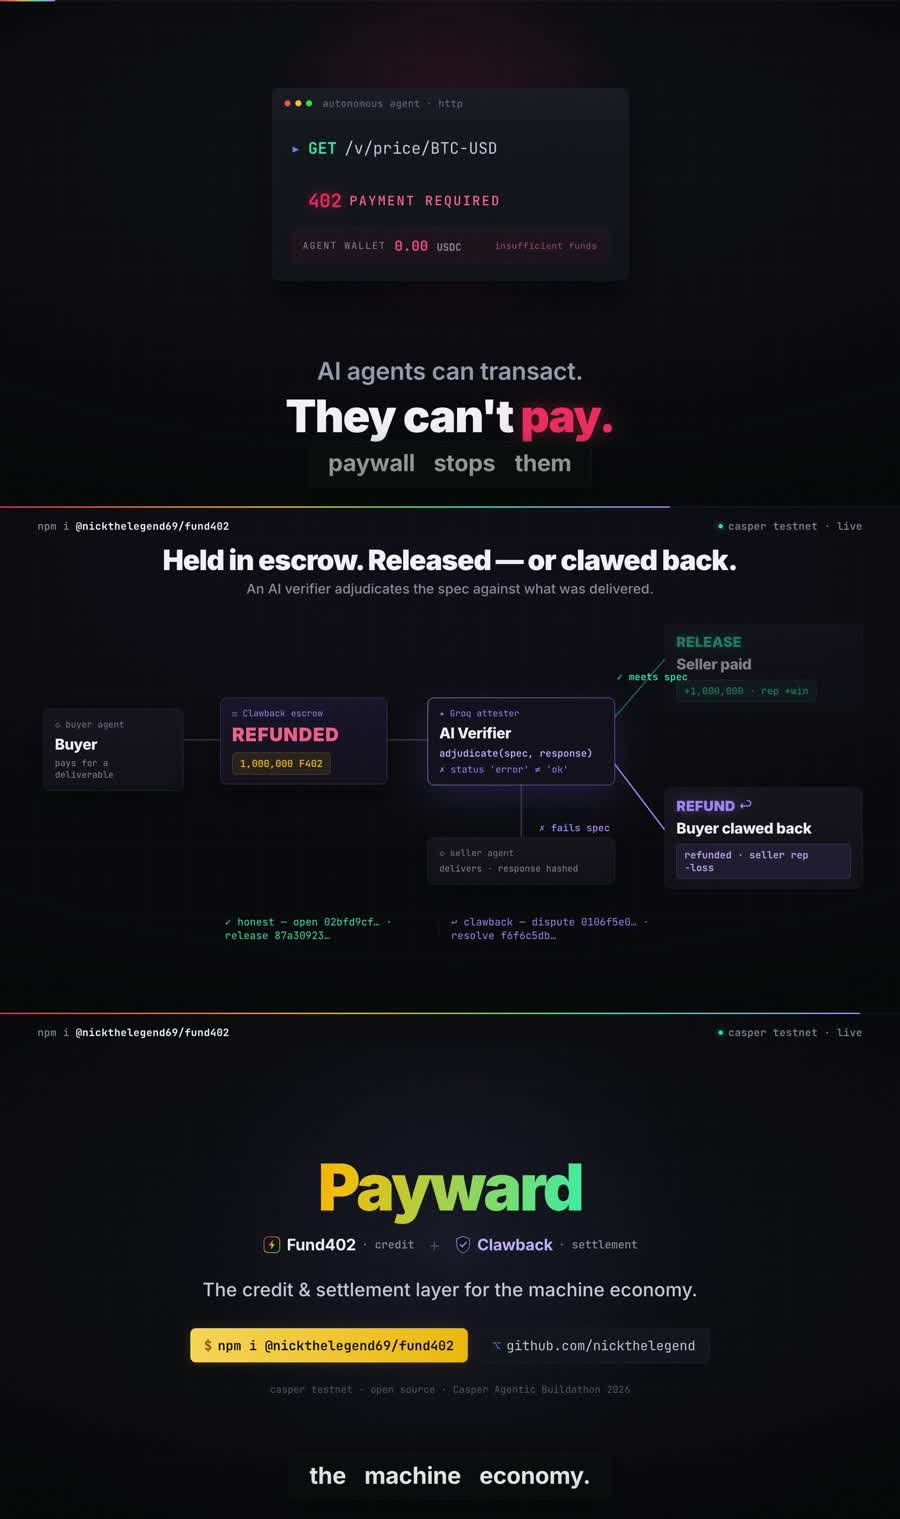
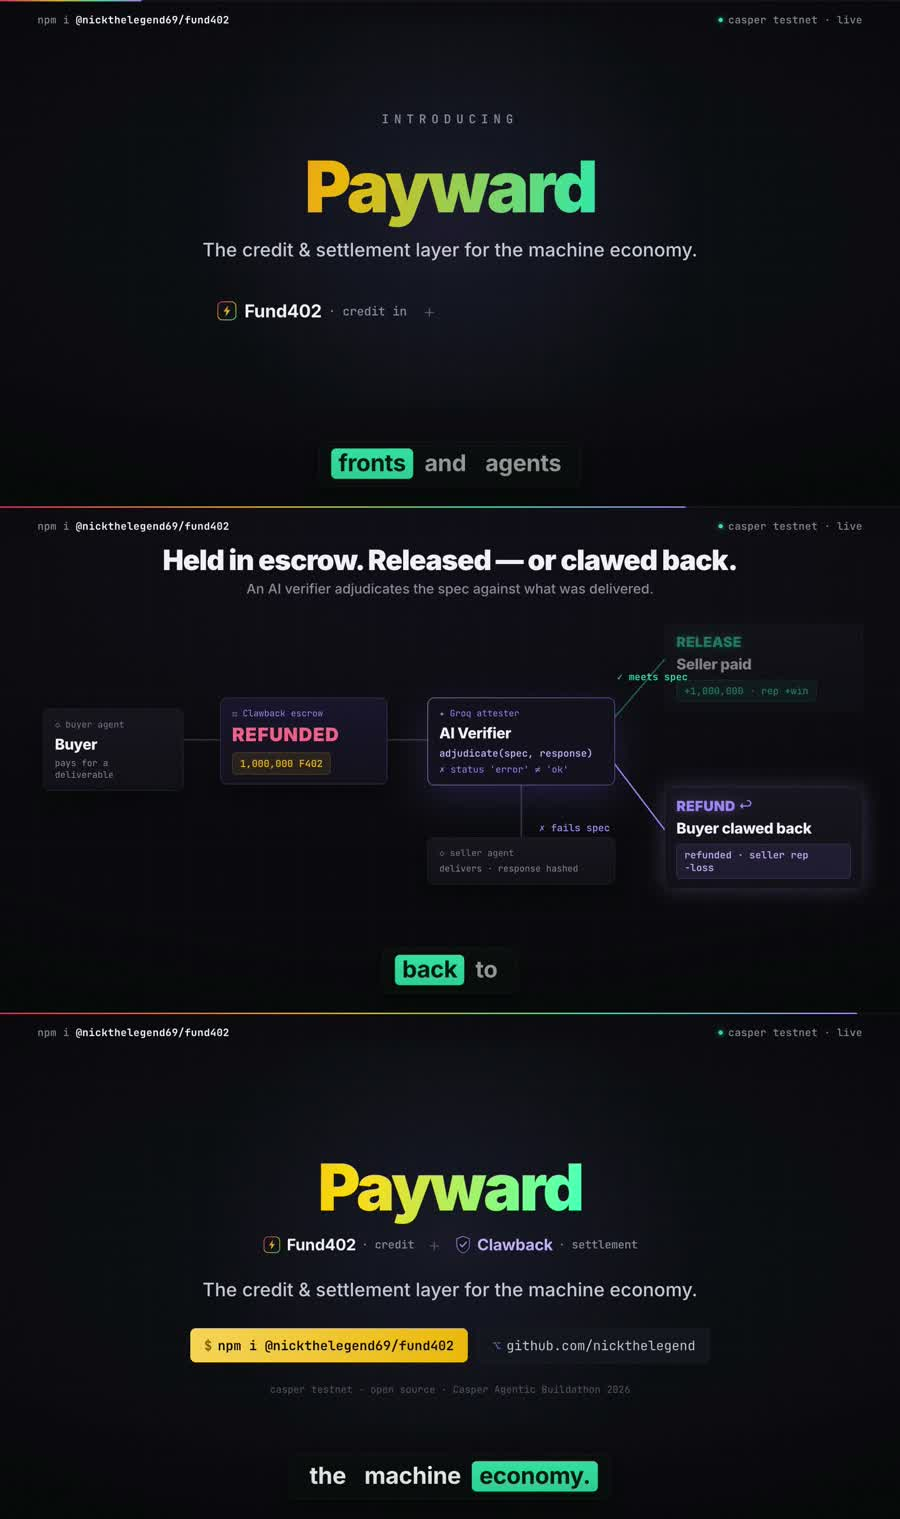
promo: open with Payward intro + extend to 1:45
New Payward-intro scene after the hook (introduces Payward, then names its two layers
Fund402 + Clawback); all subsequent scenes shifted; total 105s.

diff --git a/SUBMISSION.md b/SUBMISSION.md
@@ -14,7 +14,7 @@
 
 ## 🎬 Demo video
 
-`promo/payward-promo.mp4` — 90s, narrated, karaoke‑captioned, with real on‑chain proofs on
+`promo/payward-promo.mp4` — 1:45 (105s), narrated, karaoke‑captioned, with real on‑chain proofs on
 screen. (Recording flow + narration for a live walkthrough: see **[DEMO-SCRIPT.md](./DEMO-SCRIPT.md)**.)
 
 > **Naming:** *Payward* is the product. Its two layers ship as separate open‑source repos —